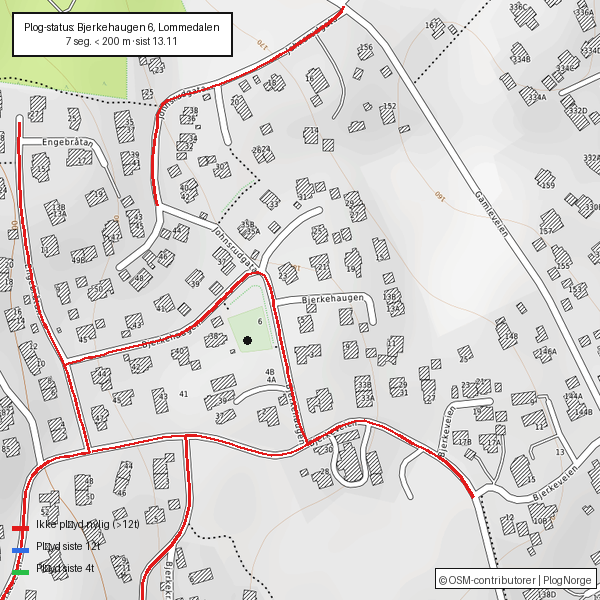
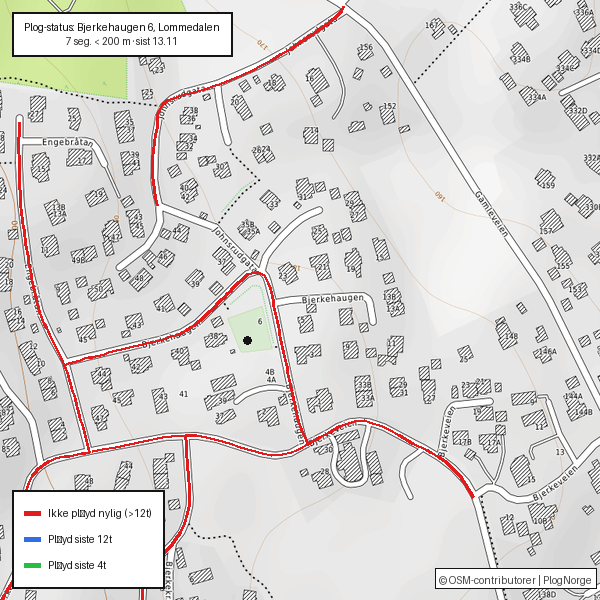
Wrap legend in a box matching top-left style

Changed region(s): [[0.0, 0.81, 0.3, 0.99]]

diff --git a/render_map.py b/render_map.py
@@ -199,14 +199,26 @@ def render_map(segments, out_path="plowmap.png"):
     d.text((cx_box,title_cy),title,font=ft,anchor="mm",fill=(10,10,10))
     d.text((cx_box,sub_cy),sub,font=fs,anchor="mm",fill=(40,40,40))
     
-    # Legend
+    # Legend (in a box matching the top-left style: white bg, black border)
     leg=[((226,28,28),"Ikke pløyd nylig (>12t)"),
          ((48,110,230),"Pløyd siste 12t"),
          ((40,190,70),"Pløyd siste 4t")]
-    lx,ly=pad,IMG_H-pad-70
+    leg_widths=[d.textbbox((0,0),lb,font=ft)[2] for (clr,lb) in leg]
+    max_label_w=max(leg_widths)
+    swatch_w=16; swatch_gap=8; pad2=12
+    row_h=22; line_gap=4
+    content_w=swatch_w+swatch_gap+max_label_w
+    content_h=len(leg)*row_h+(len(leg)-1)*line_gap
+    bx0=pad
+    by0=IMG_H-pad-(content_h+pad2*2)
+    bx1=bx0+content_w+pad2*2
+    by1=by0+content_h+pad2*2
+    d.rectangle([bx0,by0,bx1,by1],fill=(255,255,255),outline=(20,20,20),width=2)
     for i,(clr,lb) in enumerate(leg):
-        yy=ly+i*22; d.line([(lx,yy+10),lx+16,yy+10],fill=clr,width=5)
-        d.text((lx+24,yy),lb,font=ft,fill=(20,20,20))
+        row_top=by0+pad2+i*(row_h+line_gap)
+        row_mid=row_top+row_h//2
+        d.line([(bx0+pad2,row_mid),(bx0+pad2+swatch_w,row_mid)],fill=clr,width=5)
+        d.text((bx0+pad2+swatch_w+swatch_gap,row_mid),lb,font=ft,anchor="lm",fill=(20,20,20))
     
     # Attribution
     a="© OSM-contributorer | PlogNorge"; ab=d.textbbox((0,0),a,font=ft); aw=ab[2]-ab[0]
